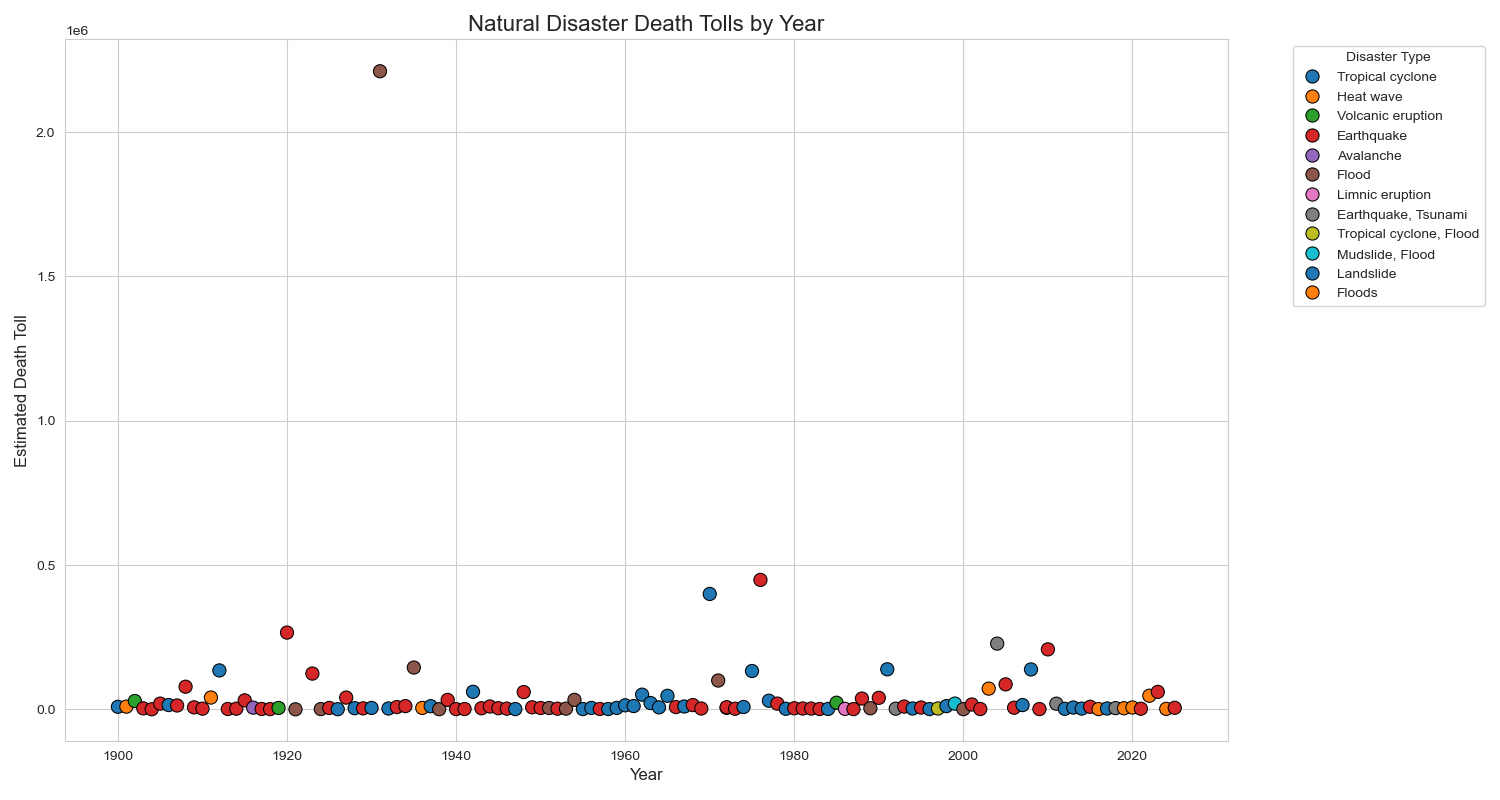
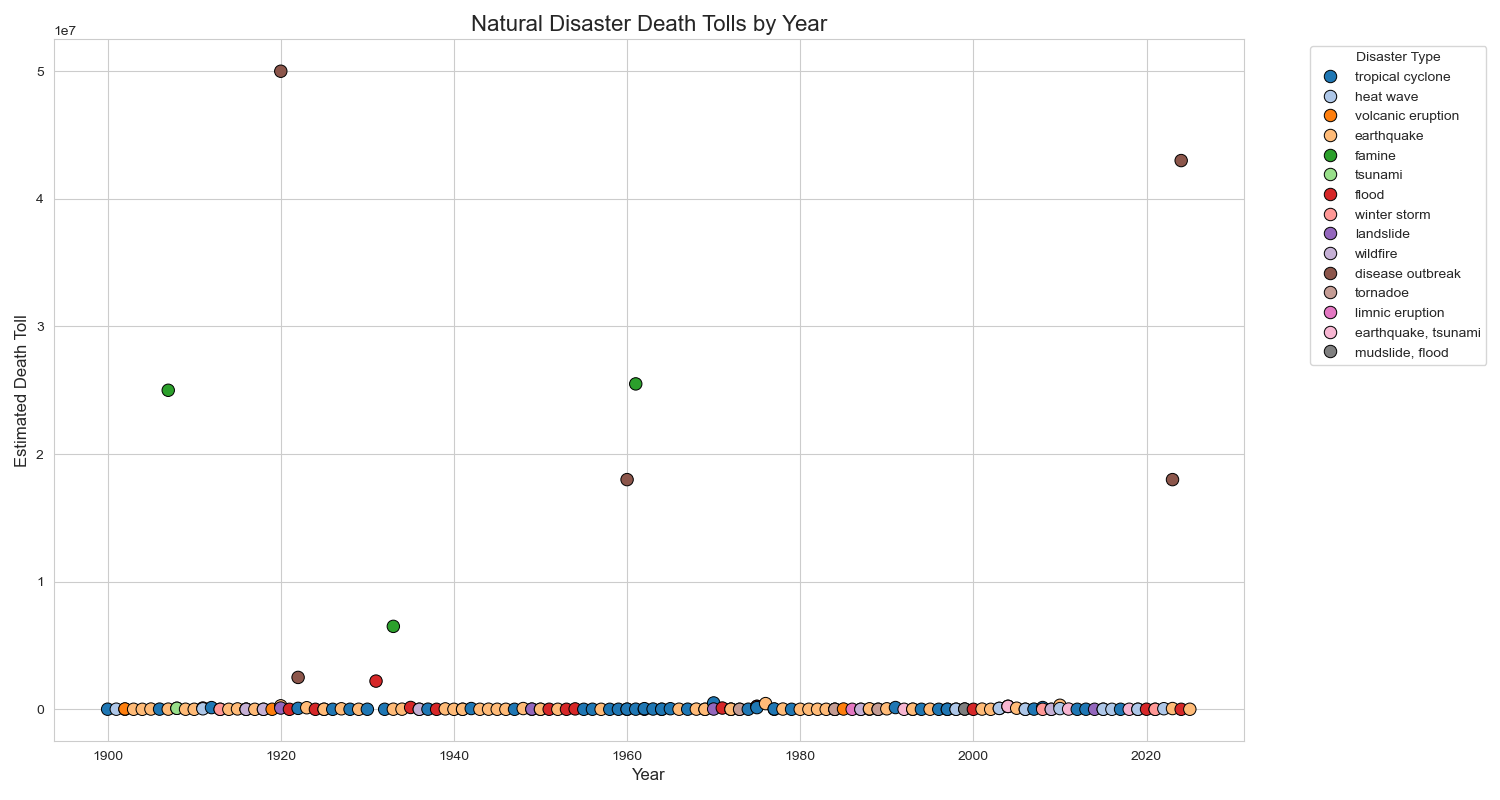
modified web scraping codes

diff --git a/web_scraping.py b/web_scraping.py
@@ -6,84 +6,210 @@ import seaborn as sns
 import requests
 from bs4 import BeautifulSoup
 
+def parse_disaster_type(value):
+    '''
+    Parse and process disaster type into a unanimous format.
+    Input can either by a string representing the id of an h3 tag or 
+    the disaster type already labeled in the column 'Type'
+    '''
+    
+    if pd.isna(value):
+        return np.nan
+    
+    value = value.lower()
+
+    # if '_' in type name, replace with ' '
+    if '_' in value:
+        value = re.sub(r'_', ' ', value)
+
+    # give a unanimous name to types related to landslide/landslip
+    if 'avalanche' in value or 'landslip' in value:
+        value = 'landslide'
+
+    # give a unanimous name to types related to cyclone/tropical cyclone
+    if 'cyclone' in value or 'tropical cyclone' in value:
+        value = 'tropical cyclone'
+    
+    # remove tailing 's' from all types for consistency
+    if value[-1] == 's':
+        value = value[:-1]
+    
+    return value
+
+
+def parse_disaster_type_from_event(value):
+    '''
+    Parse and process disaster type from an input string describing the event
+    '''
+
+    if pd.isna(value):
+        return np.nan
+    
+    # parse event by empty space
+    parts = value.split()
+    value = parts[-1]
+    value = parse_disaster_type(value)
+    
+    return value
+
+
+def parse_year(value):
+    '''
+    Parse and process year of disasters from the 'year' column.
+    The input can be either integer or string, and only string values
+    will went through the processing. Integer values will be returned
+    as they were.
+
+    For disasters with a duration such as famines or epidemics, the end
+    year was taken.
+    '''
+
+    if pd.isna(value):
+        return np.nan
+    
+    # only process years represented in a string
+    if not isinstance(value, int):
+        # for disasters with a duration, take the end year
+        if '–' in value:
+            parts = re.split('–|-', value)
+            value = parts[-1]
+            # one disease outbreak up to 2024
+            if value == 'present':
+                value = 2024
+            else:
+                # remove annotations
+                value = re.sub(r'\[.*?\]', '', value)
+                value = re.sub(r'\s*\(.*?\)', '', value)
+        else:
+            # for disasters with specific date, leave only year
+            value = value.split()[-1]
+    
+    return value
+
+
+def parse_death_toll(value):
+    '''
+    Parse and process death tolls from the 'death toll' column.
+    The input can be either integer or string, and only string values
+    will went through the processing. Integer values will be returned
+    as they were.
+
+    For death tolls with a range, the midpoint was taken. For death tolls with
+    an upper bound, the bound was taken. For those with both the bound was first taken
+    then the midpoint was calculated. Any annotations on death toll were not included.
+    '''
+    
+    if pd.isna(value):
+        return np.nan
+    
+    # only process death tolls represented in a string
+    if not isinstance(value, int):
+
+        million = False
+        if 'million' in value:
+            million = True
+            value = re.sub(r' million', '', value)
+        
+        # 1). remove annotations ([-] etc.), commas in numbers, ~
+        value = re.sub(r'\[.*?\]', '', value)
+        value = re.sub(r'\s*\(.*?\)', '', value)
+        value = re.sub(r',|~', '', value)
+        # standardize hyphens
+        value = value.replace('−', '-')
+
+        # 2). take the bound when '+' is given (e.g. 20000+)
+        if value.endswith('+'):
+            value = value[:-1]
+    
+        # 3). take midpoint if a range is given (e.g. 6000–12000)
+        if '–' in value or '-' in value:
+            parts = re.split('–|-', value)
+            low = int(parts[0])
+            high = int(parts[1])
+            value = (low + high) // 2
+            if million:
+                value = value * (10**6)
+                million = False
+
+        # 4). add million to death toll if needed
+        if million:
+            value = float(value) * (10**6)
+
+    return int(value)
+
+## ===================================================
+
 # setting
 pd.set_option("display.max_rows", 500)
 
-# fetch the page
+# fetch all tables on the page
 url = 'https://en.wikipedia.org/wiki/List_of_natural_disasters_by_death_toll'
 resp = requests.get(url)
 soup = BeautifulSoup(resp.content, 'lxml')
+tables = soup.find_all('table', {'class': 'wikitable'}) # 16 tables total
 
-tables_by_century = {}
+# 1. read in tables as pandas df, assign a 'Type' column if not present, and process disaster types
+tables_by_id = {}
+for table in tables:
+    tag = table.find_previous('h3')
+    # all tables except the first one comes after an h3 tag
+    if tag:
+        title = tag['id']
+        tables_by_id[title] = pd.read_html(str(table))[0]
+        # add disaster type
+        if 'Type' not in tables_by_id[title].columns:
+            tables_by_id[title]['Type'] = title
+        tables_by_id[title]['Type'] = tables_by_id[title]['Type'].apply(parse_disaster_type)
+    else:
+        # name the first table as "top_ten"
+        tables_by_id['top_ten'] = pd.read_html(str(table))[0]
+        # add disaster type from event
+        tables_by_id['top_ten']['Type'] = tables_by_id['top_ten']['Event'].apply(parse_disaster_type_from_event)
 
-# search through <h3> tags to find 20th and 21st century all cause disasters tables
-h3_tags = soup.find_all('h3')
-for h3 in h3_tags:
-     # grab id attribute
-    h3_id = h3['id'].lower()
-    if h3_id == '20th_century' or h3_id == '21st_century':
-        # look for the next <table> that follows this heading
-        table = h3.find_next('table', {'class': 'wikitable'})
-        century = '20th' if h3_id == '20th_century' else '21st'
-        tables_by_century[century] = pd.read_html(str(table))[0]
+# 2. align column names for dataframes, leave only selected columns for further processing
+for key, df in tables_by_id.items():
+    df.columns = df.columns.str.lower()
+    if 'year' in df.columns and 'date' in df.columns:
+        df.drop('date', axis=1, inplace=True)
+    df.rename(
+        columns={col: 'death toll' for col in df.columns if 'death toll' in col},
+        inplace=True
+    )
+    df.rename(
+        columns={col: 'year' for col in df.columns if 'date' in col},
+        inplace=True
+    )
+    tables_by_id[key] = df[['year', 'death toll', 'event', 'type']]
 
-# correct one mismatch in column names ('Death tolls' and 'Death toll')
-tables_by_century['21st'].columns = tables_by_century['20th'].columns
+# 3. merge into one df (258 x 4)
+df = pd.concat(tables_by_id.values(), ignore_index=True)
 
-# merge dataframes (127 x 6)
-df = pd.concat([tables_by_century['20th'], tables_by_century['21st']], ignore_index=True)
+# 4. process years, filter for 20th and 21st century disasters (198 x 4)
+df['year'] = df['year'].apply(parse_year)
+df = df[df["year"] != 'BC']
+df['year'] = df['year'].astype(int)
+df = df[(df['year'] >= 1900) & (df['year'] <= 2025)]
+df = df.sort_values(by="year").reset_index(drop=True)
 
-#print(df.dtypes)
-def parse_death_toll(value):
-    
-    # case where there is an NA entry
-    if pd.isna(value):
-        return np.nan
+# 5. process death tolls
+df['death toll'] = df['death toll'].apply(parse_death_toll)
 
-    # 1). remove annotations ([~] etc.)
-    value = re.sub(r'\[.*?\]', '', value)
-    
-    # 2). remove commas in numbers
-    value = re.sub(r',', '', value)
-    
-    # 3). take midpoint if a range is given (e.g. 6000–12000)
-    if '–' in value or '-' in value:
-        parts = re.split('–|-', value)
-        try:
-            low = int(parts[0])
-            high = int(parts[1])
-            return (low + high) // 2
-        except:
-            return np.nan # there is one edge case here with both range and "+" (row #22)
-    
-    # 4). take the bound when '+' is given (e.g. 20000+)
-    if value.endswith('+'):
-        try:
-            return int(value[:-1])
-        except:
-            return np.nan
+# 6. filter redundant disasters (177 x 4)
+df['event'] = df['event'].str.lower()
+df['type'] = df['type'].str.lower()
+df = df.drop_duplicates(subset=['year', 'event', 'type'], keep='first')
+df = df.reset_index(drop=True)
 
-    # Plain integer value
-    try:
-        return int(value)
-    except:
-        return np.nan
-
-# parse death toll values
-df['Death tolls'] = df['Death tolls'].apply(parse_death_toll)
-
-print(df)
-
-# plot death toll vs. year colored by disaster type
+# plot death toll vs. year colored by disaster types
 plt.figure(figsize=(15, 8))
 sns.set_style("whitegrid")
 sns.scatterplot(
     data=df,
-    x='Year',
-    y='Death tolls',
-    hue='Type',
-    palette='tab10',
-    s=90,
+    x='year',
+    y='death toll',
+    hue='type',
+    palette='tab20',
+    s=80,
     edgecolor='black'
 )
 plt.title("Natural Disaster Death Tolls by Year", fontsize=16)
@@ -92,3 +218,6 @@ plt.ylabel("Estimated Death Toll", fontsize=12)
 plt.legend(title='Disaster Type', bbox_to_anchor=(1.05, 1), loc='upper left')
 plt.tight_layout()
 plt.savefig('Q1.png')
+
+#max_row = df.loc[df['death toll'].idxmax()]
+#print(max_row)

diff --git a/gradient_descent.py b/gradient_descent.py
@@ -1,7 +1,6 @@
 import numpy as np
 import matplotlib.pyplot as plt
 
-
 def loss(x, y, b):
     '''
     Compute loss given vectors x, y and scalar b
@@ -21,7 +20,7 @@ def gradient_descent(x, y, b, e, epsilon=1e-6, max_itr=10000, verbose=True):
     Perform gradient descent with supplied input vectors x and y,
     an initial scalar value b, and a learning rate e. Algorithm
     terminates if the value of b converges or reaches the maximum
-    number of iterations allowed.
+    number of iterations allowed (default 10,000).
     '''
 
     b_current = b
@@ -61,7 +60,7 @@ b_init = np.random.randint(0, 11)
 
 ## initial test ##
 # run GD
-b_est, loss_list, gradient_list, num_itr = gradient_descent(x=x, y=y, b=b_init, e=lr)
+b_est, loss_list, gradient_list, num_itr = gradient_descent(x=x, y=y, b=b_init, e=lr, verbose=False)
 # diagnostics
 print(f"x={x} and y={y}\n The true b={b_true} and the estimated b by gradient descent={b_est}")
 # plotting
@@ -87,6 +86,8 @@ for j, lr in enumerate(lr_list):
 # plot 1: loss versus learning rate
 plt.figure()
 plt.plot(lr_list, loss_final_list, marker='o')
+plt.xscale('log')
+plt.xlim(min(lr_list) * 0.8, max(lr_list) * 1.2)
 plt.xlabel('Learning rates')
 plt.ylabel('Final loss')
 plt.title('Loss vs Learning Rate')
@@ -95,11 +96,13 @@ plt.savefig('GD_lr_v_loss.png')
 # plot 2: number of iterations versus learning rate
 plt.figure()
 plt.plot(lr_list, itr_final_list, marker = 'o')
+plt.xscale('log')
+plt.xlim(min(lr_list) * 0.8, max(lr_list) * 1.2)
 plt.xlabel('Learning rates')
 plt.ylabel('# Iterations')
 plt.title('Interations vs Learning Rate')
 plt.savefig('GD_lr_v_itr.png')
 
-# print out estimated b
+# print out estimated b -> sometimes the biggest learning rate tested causes an overflow, leaving b_final NA
 print(lr_list)
 print(b_final_list)

diff --git a/README.md b/README.md
@@ -1,16 +1,17 @@
 ## Q1
 ![Death roll by year](Q1.png)
 
-The scatterplot shows the number of people estimated to have died in the deadliest natural disasters by year over time, from around 1900 to 2025. 
-Each dot represents a specific disaster, with its position on the x-axis representing the year it occurred, and the height on the y-axis showing the number of deaths.
-For example, the dot with the highest position on the y-axis represents the China flood in 1931, with an estimated number of death over 2,000,000 people. 
-The color of each dot indicates the type of disaster, such as earthquake, flood, or cyclone. Most disasters resulted in around 100,000 deaths, as can be seen by majority of dots
-concentrating at the bottom of the plot. However, a few disasters had extremely high death tolls, especially one event in the 1930s that caused over 2 million deaths (1931 China flood).
-Earthquakes and tropical cyclones are frequently the most deadliest natural disasters in each year, reflected by the abundance of dots colored in red and blue from the plot.
-
-## Q2
-The learning rate controls the time the algorithm needs to reach convergence. The algorithm shows slower convergence when the learning rate is extremely low, and faster convergence when the
-learning rate falls in a reasonable range.
-
-The algorithm could fail under numerical instability caused by overly large learning rate.
+The scatterplot shows the number of people estimated to have died in different natural disaster events from around 1900 to 2025.
+Each dot represents a specific disaster, its position on the x-axis represents the year it occurred in, and the height on the y-axis showing the number of deaths. For example, the dot with the highest position on the y-axis represents the Spanish flu in 1920, with an estimated number of death of over 50 million people. 
+The color of each dot indicates the type of disaster, such as earthquake, flood, or cyclone. Sometimes the death count was caused by a combination of disasters of different types, and such combincations are preserved as their own categories. A few disaster types demonstrated extremely high death tolls over multiple occurrences, such as famines (in green) and disease outbreaks (in dark brown).
  
+## Q2
+| Plot 1 | Plot 2 |
+|--------|--------|
+| ![](GD_lr_v_itr.png) | ![](GD_lr_v_loss.png) |
+
+The figures show the result of simulating gradient descent with different learning rates, generated on a log scale.
+
+The learning rate controls how fast the algorithm reaches convergence. The algorithm will take extra iterations to converge if a small learning rate is supplied. In the simulation, the smallest learning rate tested did not lead to algorithm convergence in 10,000 iterations, which was set to be the maximum iterations allowed in this scenario. The algorithm's loss also remained high at iteration = 10,000. When the learning rate increases, the number of iterations it takes for gradient descent to converge decreased. With learning rates generated on a log scale in this simulation, the number of iterations went through a drastic decrease first then gradually converged. Final loss at algorithm convergence did not differ.
+
+The algorithm fails under numerical instability caused by a learning rate too large. When e is large, as we iterate through the algorithm the gradient grows large quickly eventually causing an overflow. When an overflow happens an 'inf' value is assigned and subsequent computations fail leading to a failure in the algorithm.
